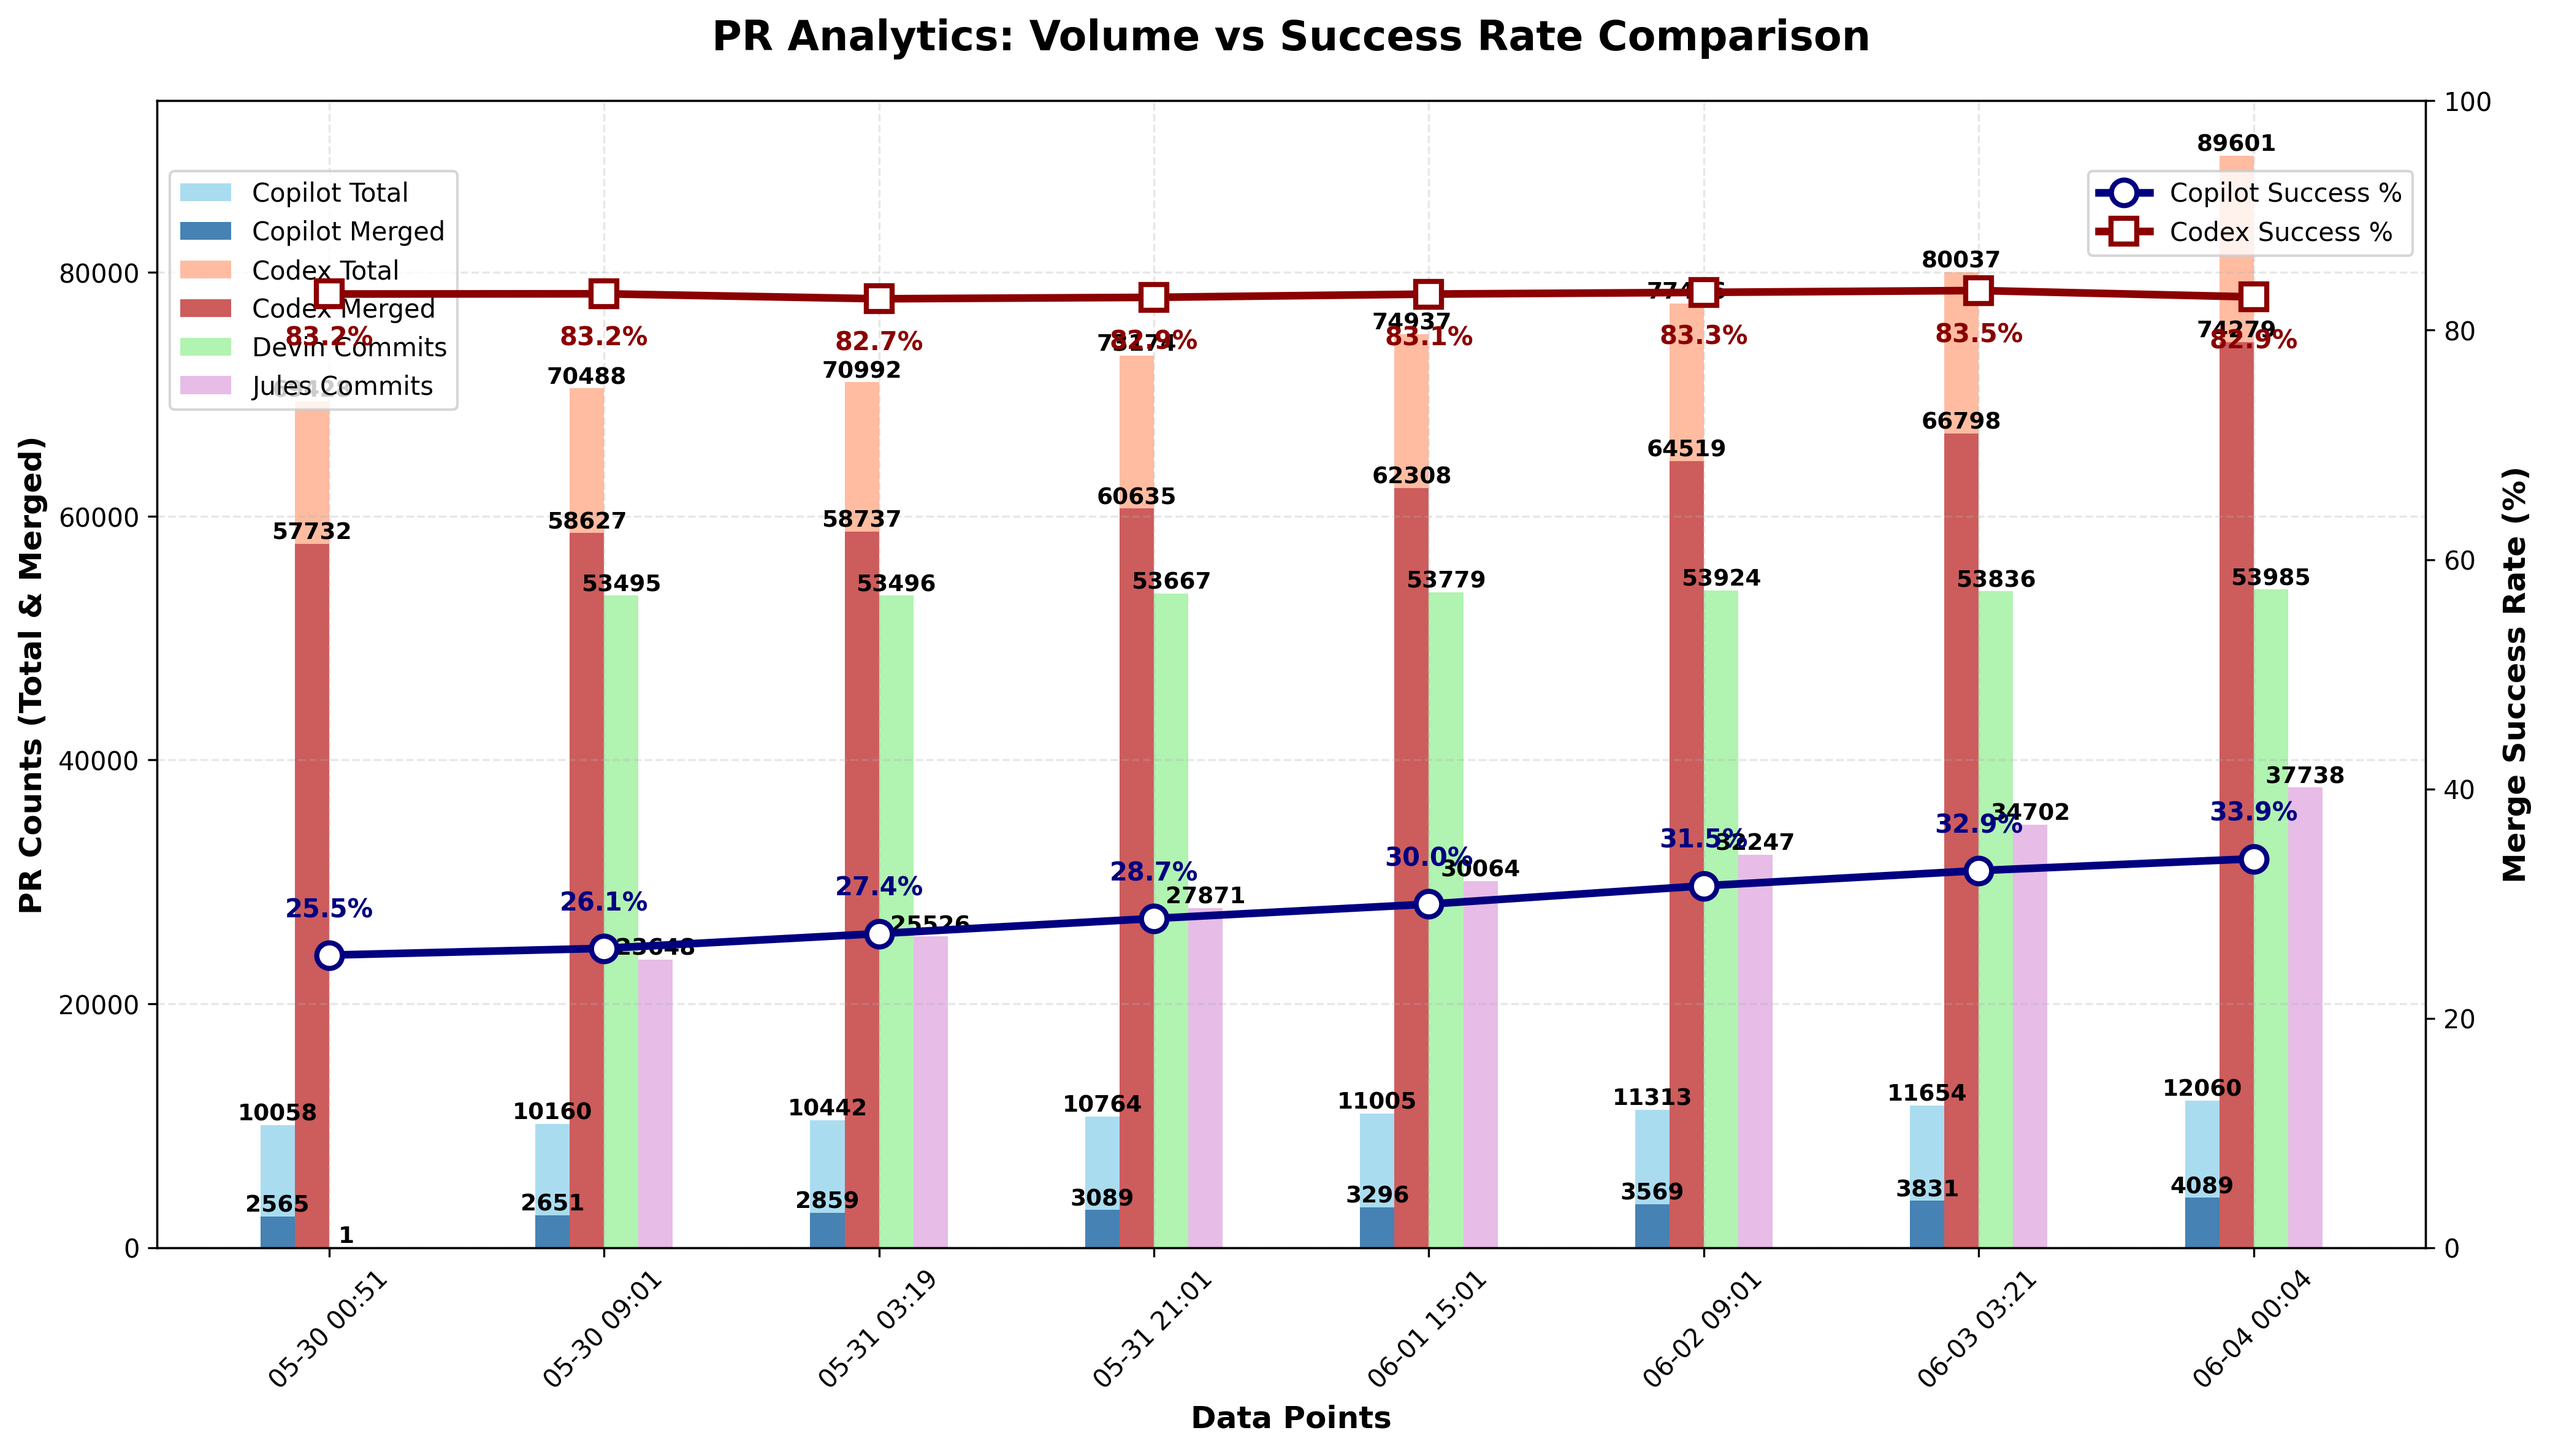
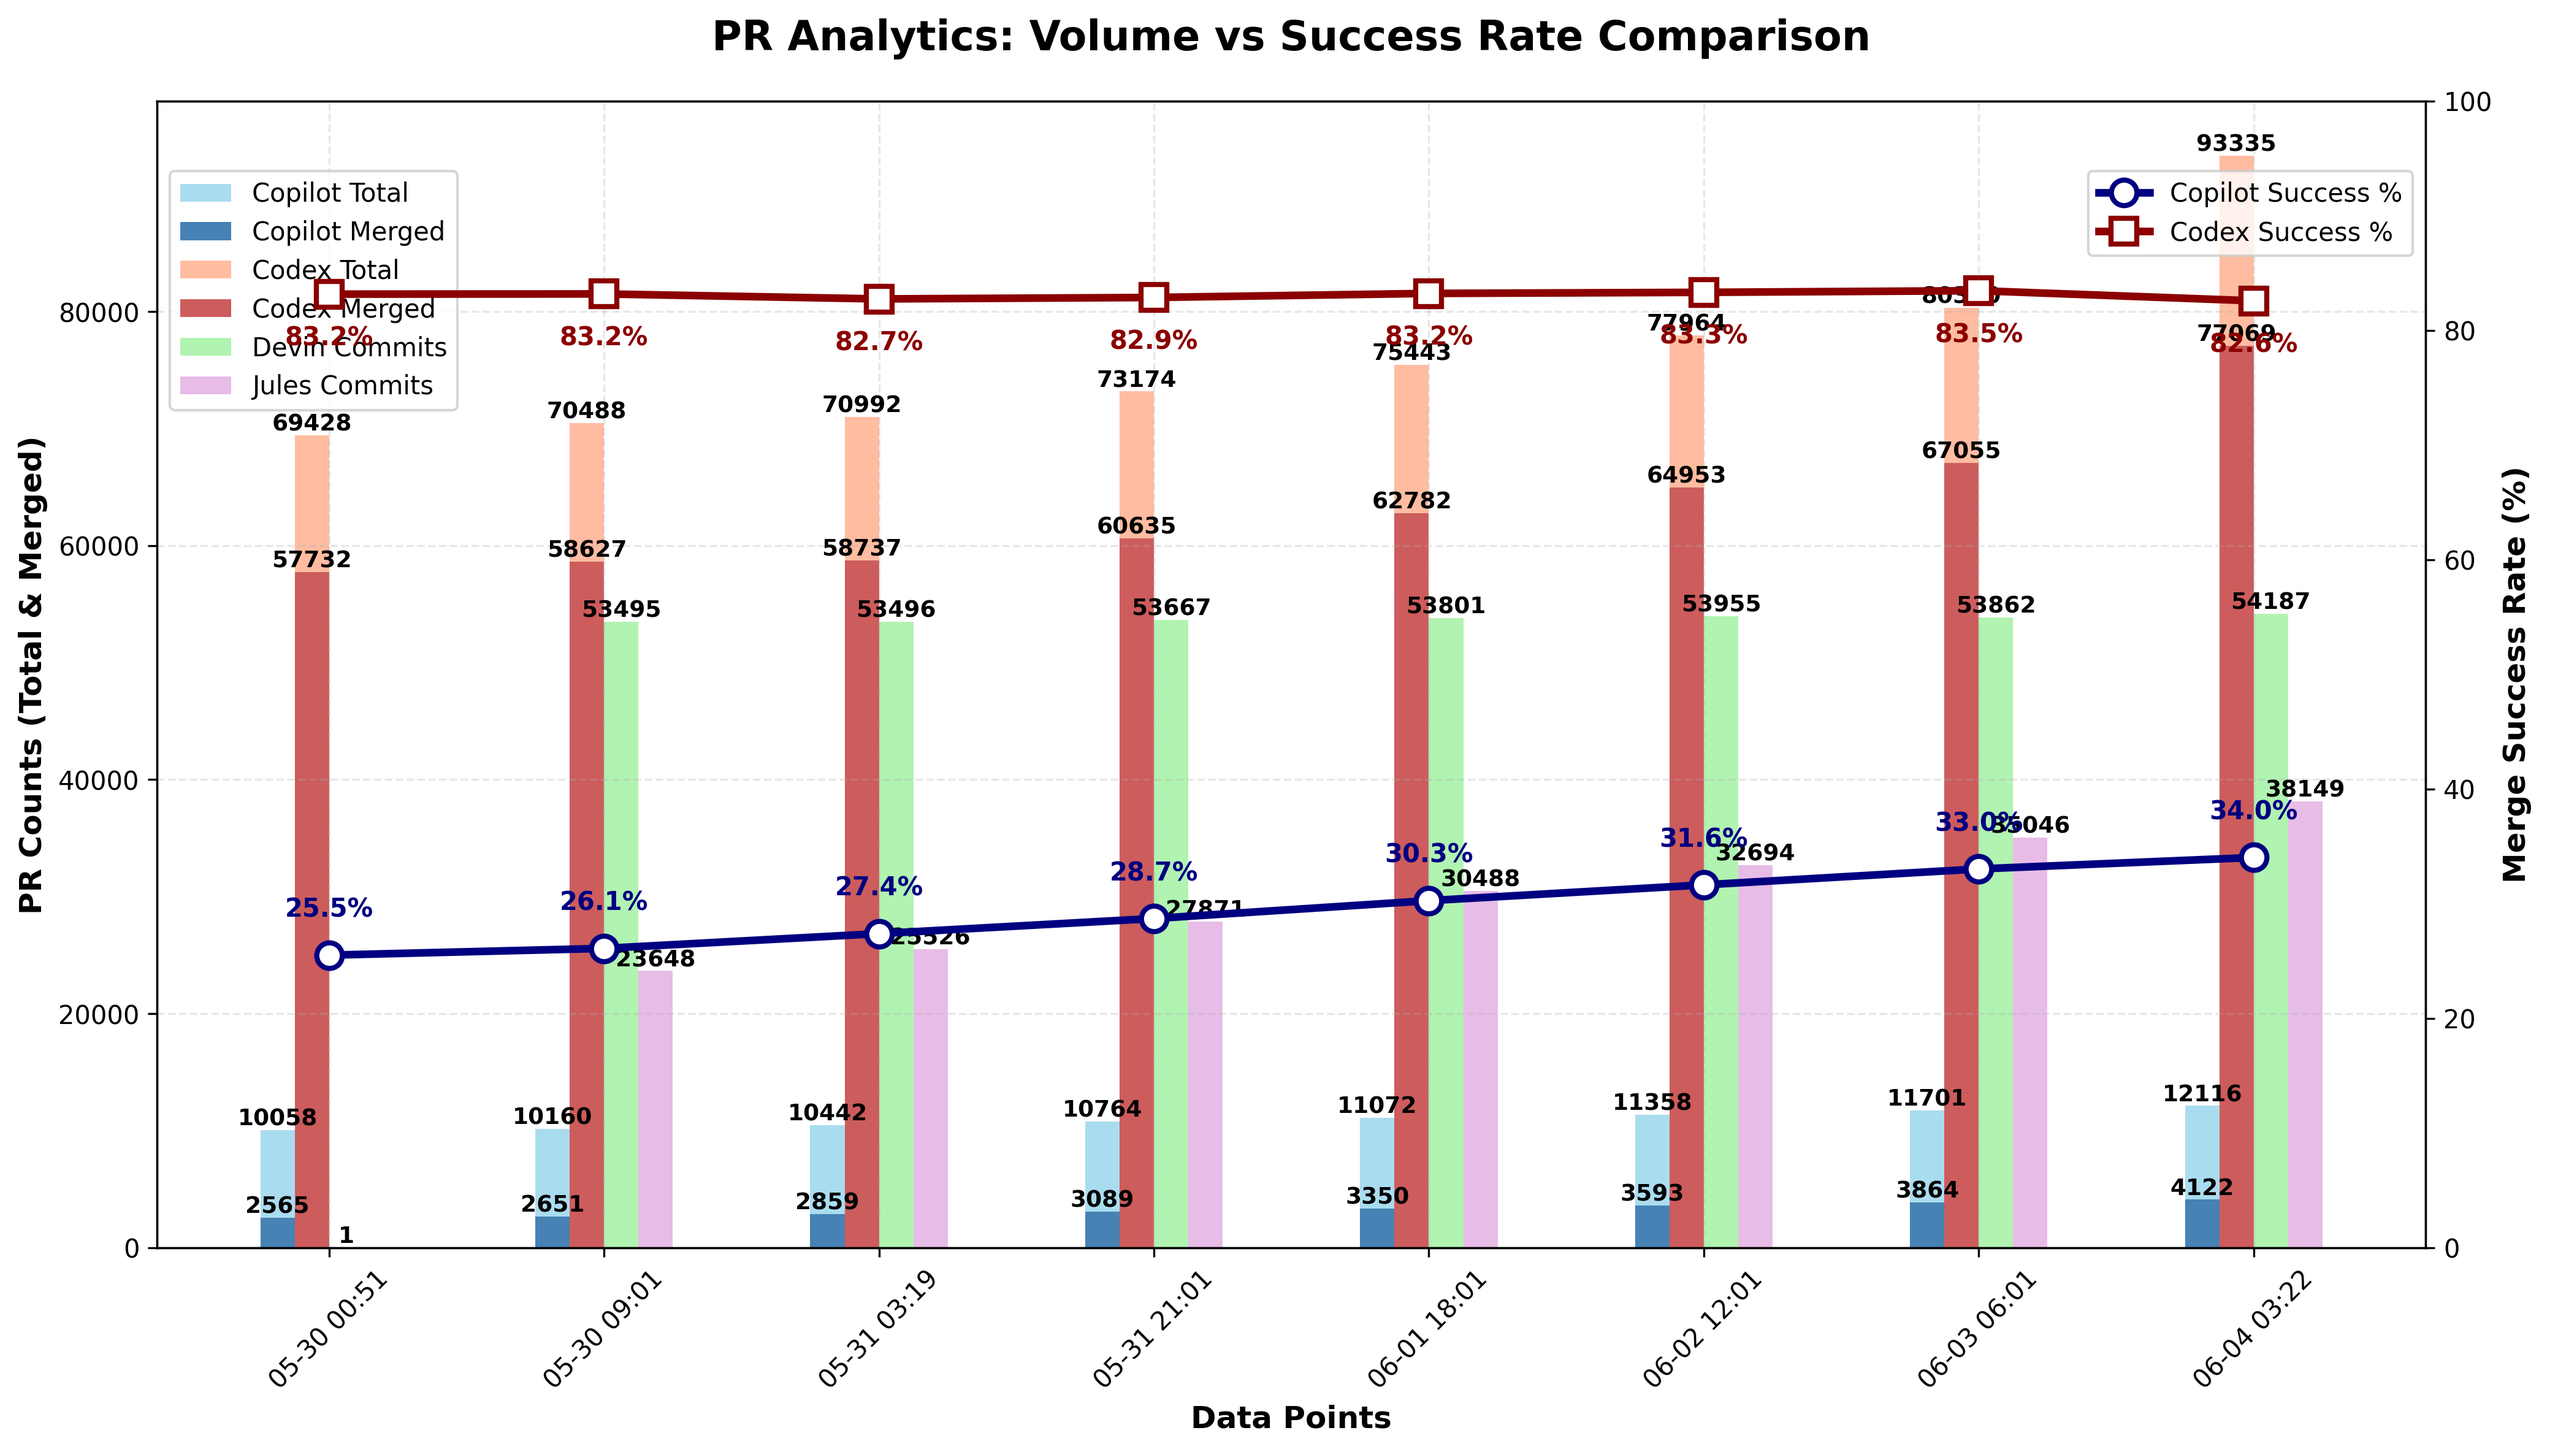
chore: update PR‑approval chart

diff --git a/docs/index.html b/docs/index.html
@@ -91,6 +91,7 @@
                         <td>N/A</td>
                         <td>N/A</td>
                         <td>N/A</td>
+                        <td>N/A</td>
                     </tr>
                     <tr>
                         <td>Codex</td>
@@ -140,27 +141,28 @@
                         <td>N/A</td>
                         <td>N/A</td>
                         <td>N/A</td>
+                        <td>N/A</td>
                     </tr>
                 <tr>
                         <td>Devin</td>
                         <td>N/A</td>
                         <td>N/A</td>
                         <td>N/A</td>
-                        <td>53,985</td>
+                        <td>54,187</td>
                     </tr>
                     <tr>
                         <td>Jules</td>
                         <td>N/A</td>
                         <td>N/A</td>
                         <td>N/A</td>
-                        <td>37,738</td>
+                        <td>38,149</td>
                     </tr>
                     </tbody>
             </table>
         </section>
 
         <footer>
-            <p>Last updated: <span id="last-updated">June 04, 2025 00:04 UTC</span></p>
+            <p>Last updated: <span id="last-updated">June 04, 2025 03:22 UTC</span></p>
             <p><a href="https://github.com/aavetis/ai-pr-watcher">View on GitHub</a></p>
         </footer>
     </div>

diff --git a/README.md b/README.md
@@ -19,7 +19,7 @@ Explore the GitHub search queries used:
 
 | Service | Total PRs | Merged PRs | Merge Rate | Total Commits |
 | ------- | --------- | ---------- | ---------- | ------------- |
-| Copilot | 12,060 | 4,089 | 33.91% | N/A           |
-| Codex   | 89,601 | 74,279 | 82.90% | N/A           |
-| Devin   | N/A       | N/A        | N/A        | 53,985 |
-| Jules   | N/A       | N/A        | N/A        | 37,738 |
+| Copilot | 12,116 | 4,122 | 34.02% | N/A           |
+| Codex   | 93,335 | 77,069 | 82.57% | N/A           |
+| Devin   | N/A       | N/A        | N/A        | 54,187 |
+| Jules   | N/A       | N/A        | N/A        | 38,149 |
